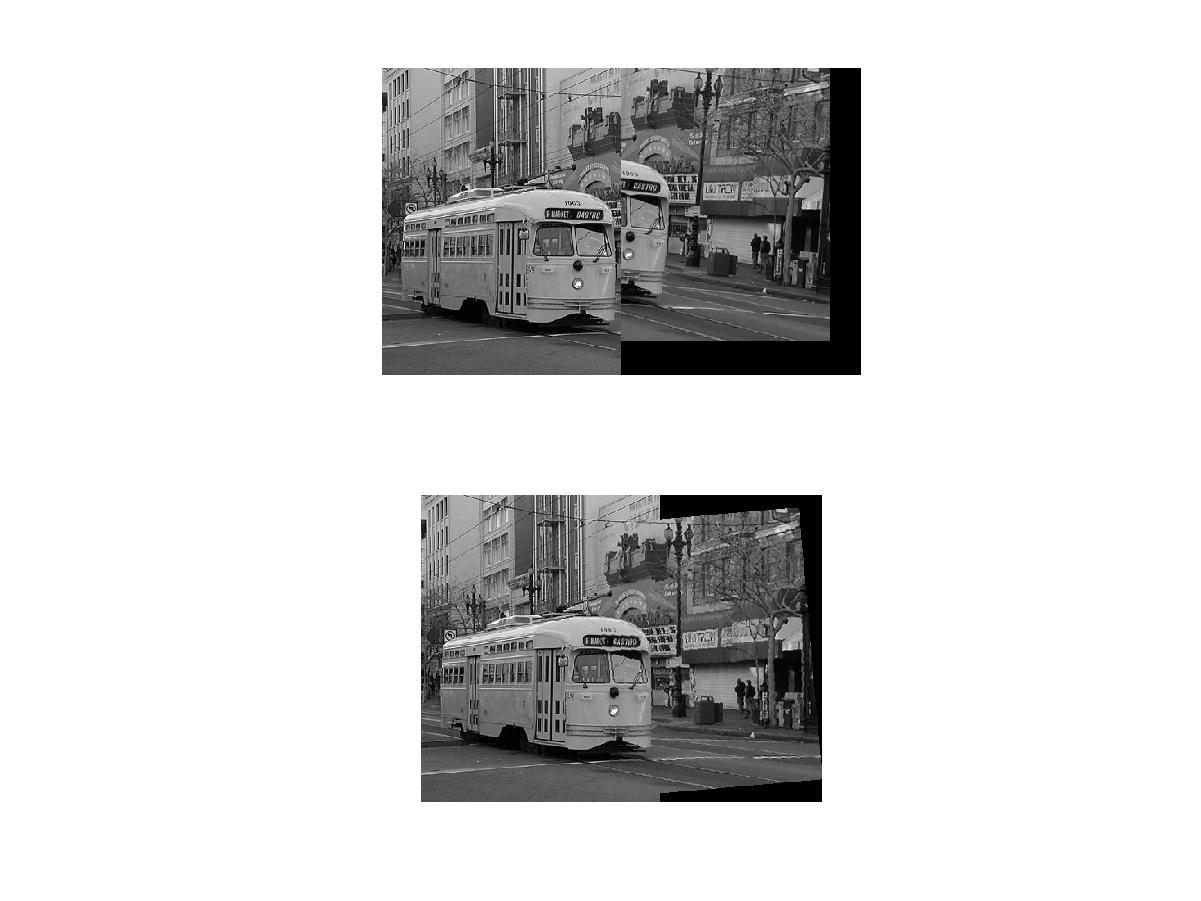
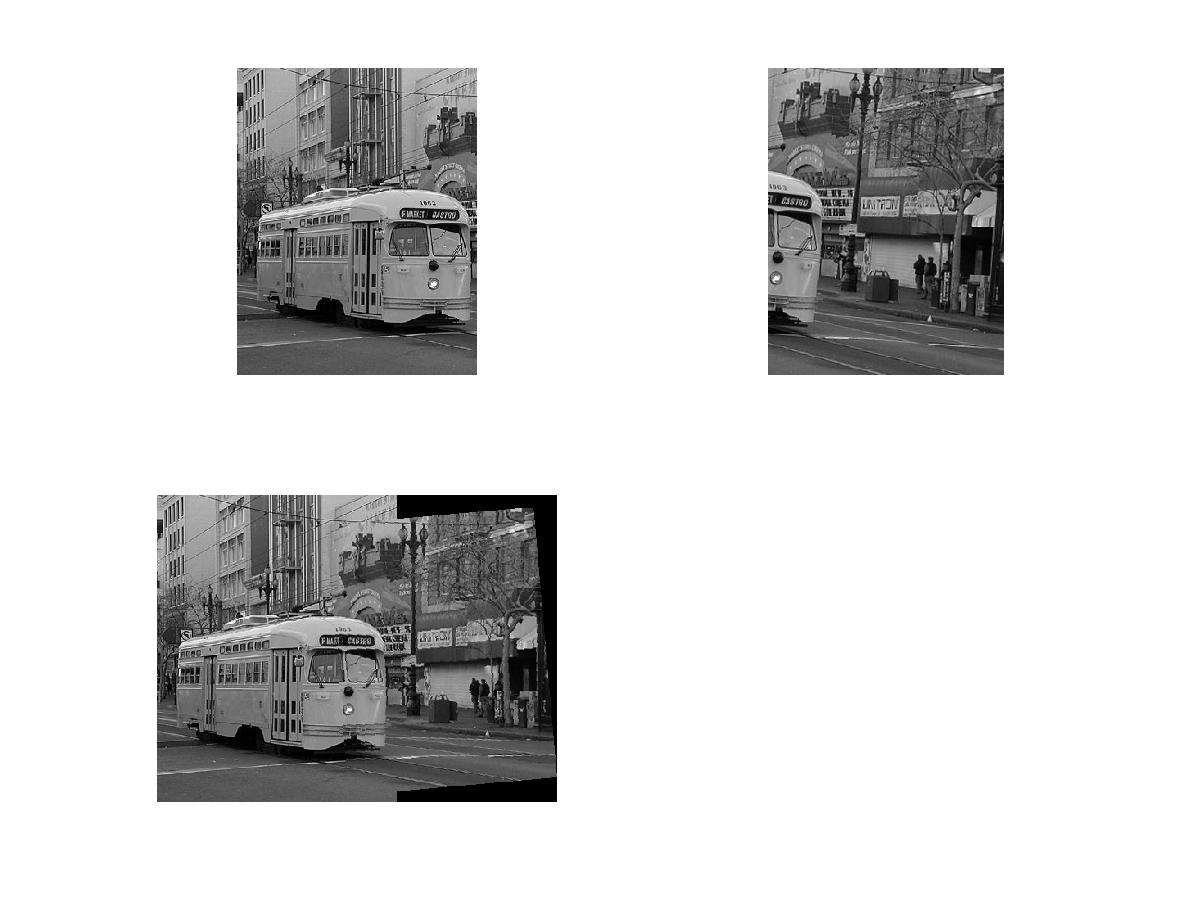
img added

diff --git a/Assignment4/src/Demo2.m b/Assignment4/src/Demo2.m
@@ -45,5 +45,11 @@ end
 
 
 %     
-figure;
+fig = figure;
+subplot(2,2,1);
+imshow(left/255);
+subplot(2,2,2);
+imshow(right/255);
+subplot(2,2,3);
 imshow(outputImg/255);
+saveas(fig, '../report/stich.jpg');
